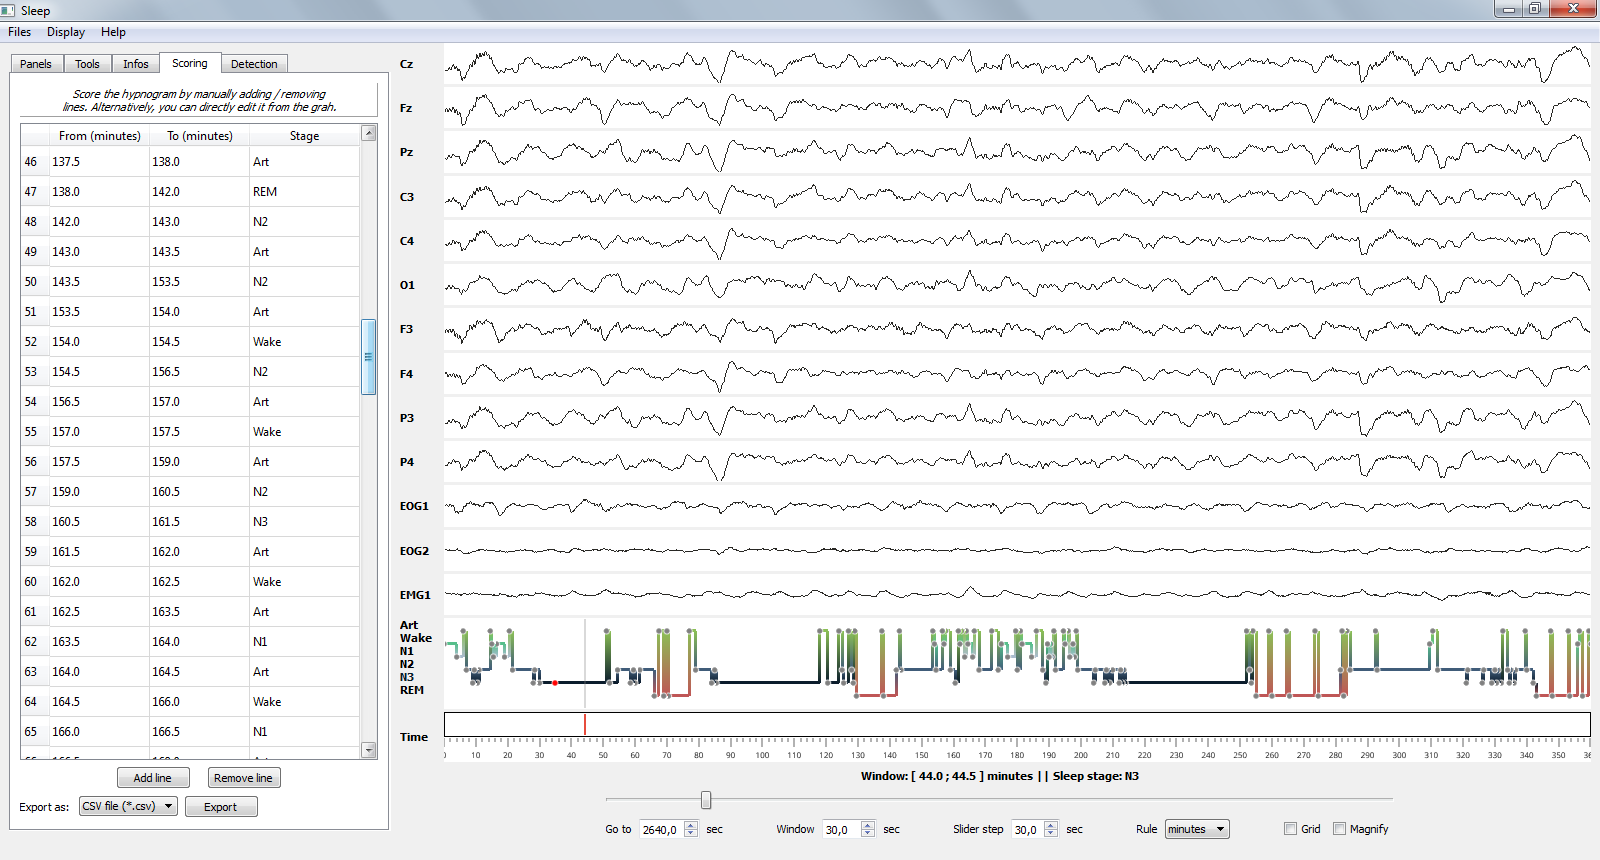
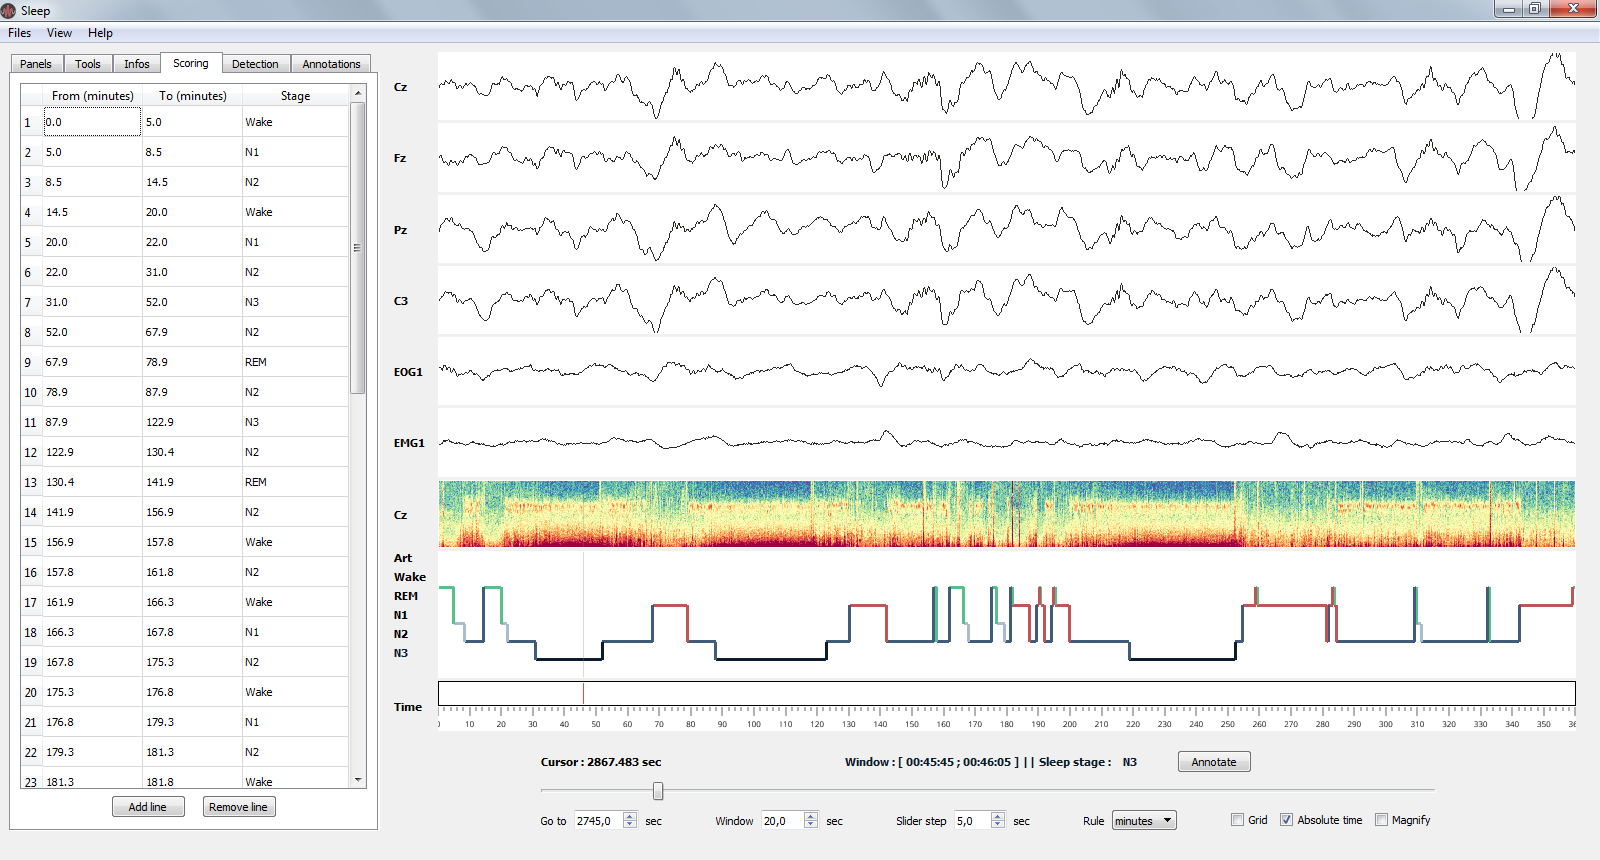
updated sleep doc

diff --git a/visbrain/sleep/interface/gui/sleep_gui.py b/visbrain/sleep/interface/gui/sleep_gui.py
@@ -1,8 +1,8 @@
 # -*- coding: utf-8 -*-
 
-# Form implementation generated from reading ui file '/home/etienne/Toolbox/visbrain/visbrain/sleep/interface/gui/sleep_gui.ui'
+# Form implementation generated from reading ui file 'sleep_gui.ui'
 #
-# Created by: PyQt5 UI code generator 5.9
+# Created by: PyQt5 UI code generator 5.8.2
 #
 # WARNING! All changes made in this file will be lost!
 
@@ -104,7 +104,7 @@ class Ui_MainWindow(object):
         self._PanScrollChan.setAlignment(QtCore.Qt.AlignLeading|QtCore.Qt.AlignLeft|QtCore.Qt.AlignTop)
         self._PanScrollChan.setObjectName("_PanScrollChan")
         self.scrollAreaWidgetContents_3 = QtWidgets.QWidget()
-        self.scrollAreaWidgetContents_3.setGeometry(QtCore.QRect(0, 0, 376, 689))
+        self.scrollAreaWidgetContents_3.setGeometry(QtCore.QRect(0, 0, 337, 728))
         self.scrollAreaWidgetContents_3.setObjectName("scrollAreaWidgetContents_3")
         self.verticalLayout_14 = QtWidgets.QVBoxLayout(self.scrollAreaWidgetContents_3)
         self.verticalLayout_14.setContentsMargins(0, 0, 0, 0)
@@ -956,7 +956,7 @@ class Ui_MainWindow(object):
         self._ToolsRefIgnArea.setWidgetResizable(True)
         self._ToolsRefIgnArea.setObjectName("_ToolsRefIgnArea")
         self.scrollAreaWidgetContents = QtWidgets.QWidget()
-        self.scrollAreaWidgetContents.setGeometry(QtCore.QRect(0, 0, 386, 315))
+        self.scrollAreaWidgetContents.setGeometry(QtCore.QRect(0, 0, 341, 343))
         self.scrollAreaWidgetContents.setObjectName("scrollAreaWidgetContents")
         self.verticalLayout_2 = QtWidgets.QVBoxLayout(self.scrollAreaWidgetContents)
         self.verticalLayout_2.setContentsMargins(0, 0, 0, 0)
@@ -982,7 +982,6 @@ class Ui_MainWindow(object):
         self.verticalLayout_30.addWidget(self._ToolsRefGrp)
         spacerItem31 = QtWidgets.QSpacerItem(20, 40, QtWidgets.QSizePolicy.Minimum, QtWidgets.QSizePolicy.Expanding)
         self.verticalLayout_30.addItem(spacerItem31)
-        self.frame_6.raise_()
         self.frame_6.raise_()
         self._ToolsRefGrp.raise_()
         self._stacked_tools.addWidget(self.page_4)
@@ -1769,7 +1768,7 @@ class Ui_MainWindow(object):
         self.horizontalLayout_2.addWidget(self.splitter)
         MainWindow.setCentralWidget(self.centralwidget)
         self.menubar = QtWidgets.QMenuBar(MainWindow)
-        self.menubar.setGeometry(QtCore.QRect(0, 0, 1359, 25))
+        self.menubar.setGeometry(QtCore.QRect(0, 0, 1359, 21))
         self.menubar.setObjectName("menubar")
         self.menuFiles = QtWidgets.QMenu(self.menubar)
         self.menuFiles.setObjectName("menuFiles")
@@ -1999,7 +1998,7 @@ class Ui_MainWindow(object):
         self._PanAllAmpMax.setToolTip(_translate("MainWindow", "<html><head/><body><p>Change maximum amplitude for all channels</p></body></html>"))
         self._PanSpecMethod.setToolTip(_translate("MainWindow", "<html><head/><body><p>Computation method for the spectrogram</p></body></html>"))
         self._PanSpecMethod.setItemText(0, _translate("MainWindow", "spectrogram"))
-        self._PanSpecMethod.setItemText(1, _translate("MainWindow", "time-frequency"))
+        self._PanSpecMethod.setItemText(1, _translate("MainWindow", "wavelet"))
         self._PanSpecMethod.setItemText(2, _translate("MainWindow", "multitaper"))
         self.label_54.setText(_translate("MainWindow", "Apply on\n"
 "channel"))

diff --git a/visbrain/sleep/visuals/visuals.py b/visbrain/sleep/visuals/visuals.py
@@ -474,7 +474,7 @@ class Spectrogram(PrepareData):
         nperseg = int(round(nfft * sf))
 
         # =================== TF // SPECTRO ===================
-        if method == 'time-frequency':
+        if method == 'wavelet':
             self.tf.set_data(data, sf, f_min=fstart, f_max=fend, cmap=cmap,
                              contrast=contrast, n_window=nperseg,
                              overlap=overlap, window='hamming', norm=norm)
@@ -530,8 +530,8 @@ class Spectrogram(PrepareData):
             self.rect = (tm, freq.min(), tM - tm, freq.max() - freq.min())
             self.freq = freq
         # Visibility :
-        self.mesh.visible = 0 if method == 'time-frequency' else 1
-        self.tf.visible = 1 if method == 'time-frequency' else 0
+        self.mesh.visible = 0 if method == 'wavelet' else 1
+        self.tf.visible = 1 if method == 'wavelet' else 0
 
     def clean(self):
         """Clean indicators."""

diff --git a/visbrain/sleep/interface/ui_elements/ui_menu.py b/visbrain/sleep/interface/ui_elements/ui_menu.py
@@ -18,6 +18,7 @@ class UiMenu(HelpMenu):
         """Init."""
         base = 'http://visbrain.org/sleep.html'
         sections = {'Sleep': base,
+                    'Time-frequency': base + '#time-frequency',
                     'Hypnogram scoring': base + '#hypnogram-scoring',
                     'Detections': base + '#apply-semi-automatic-detection',
                     'Annotations': base + '#import-add-and-save-annotations'}

diff --git a/visbrain/sleep/interface/ui_elements/ui_panels.py b/visbrain/sleep/interface/ui_elements/ui_panels.py
@@ -464,7 +464,7 @@ class UiPanels(object):
         _, fend = self._PanSpecFstart.value(), self._PanSpecFend.value()  # noqa
         # Enable / disable normalization :
         use_tf = 1 if str(self._PanSpecMethod.currentText()
-                          ) == 'time-frequency' else 0
+                          ) == 'wavelet' else 0
         self._PanSpecNormW.setEnabled(use_tf)
 
         self._PanSpecStep.setMaximum(nfft * .99)

diff --git a/docs/sleep.rst b/docs/sleep.rst
@@ -44,7 +44,7 @@ Main features
 * **Hypnogram**
     * Load, edit and save
     * Real-time computation of sleep statistics
-    * Export the hypnogram as a color or black-and-white traditional figure
+    * Export high-quality hypnogram figure
 * **Semi-automatic detection and signal processing functions**
     * Implemented methods : sleep spindles, K-complexes, slow waves, rapid eye movements, muscle twitches and peak detection (*each detection comes with additional and controllable parameters*)
     * Can be performed either on single or multiple channels
@@ -99,8 +99,8 @@ Settings panel tabs
 
 Sleep provide five settings tabs :
 
-* :ref:`paneltab` : manage object visibility, channel's amplitudes, spectrogram properties...
-* :ref:`toolstab` : a bundle of signal processing tools (*e.g filtering, re-referencing*)
+* :ref:`paneltab` : manage channel, time-frequency, hypnogram and topographic map
+* :ref:`toolstab` : bundle of signal processing tools (*e.g filtering, re-referencing*)
 * :ref:`infotab` : sleep statistics and basic infos on the EEG recording
 * :ref:`scoringtab` : a scoring table that can be used to edit the hypnogram
 * :ref:`detectiontab` : automatic detection of sleep spindles, rapid eye movements (REMs), slow waves, K-complexes (KCs) and peaks
@@ -111,7 +111,7 @@ Sleep provide five settings tabs :
 Panels
 ++++++
 
-Manage object visibility, channel's amplitudes, spectrogram properties...
+Manage channel, time-frequency, hypnogram and topographic map
 
 .. figure::  picture/picsleep/sleep_topo.png
    :align:   center
@@ -125,18 +125,15 @@ Manage object visibility, channel's amplitudes, spectrogram properties...
         * By setting all amplitudes at once
         * Use symmetric amplitudes (-M, +M)
         * Use automatic amplitude (each amplitude fit to the (minimum, maximum) of the current displayed window)
-* *Spectrogram*
-    * Control spectrogram looking and properties
+* *Time-frequency*
+    * Manage the time-frequency representation of the full recording
         * the channel on which compute spectrogram
-        * tarting and ending frequencies
+        * the computation method (see :ref:`time_frequency`)
+        * starting and ending frequencies
         * time length window and overlap
         * colormap
-    * Display and zoom
-        * Show / hide spectrogram, hypnogram, time axis
-        * Display / hide visual indicators referring to the current time window
-        * Zoom : when zooming, the axis will fit to the time window according to the (window, step) parameters defined in the ruler
 * **Topoplot**
-    * Display and properties
+    * Manage the topographic map (topoplot) of the current window
         * Show / hide topoplot
         * Display either the filtered signal, the amplitude or the power in specific frequency band
         * Colormap control
@@ -173,6 +170,7 @@ The Info panel displays the recording infos (e.g. name and downsampling frequenc
    Sleep statistics.
 
 * File properties
+    * Filename
     * Sampling frequency
     * Down-sampling frequency
 * Sleep statistics(*All values are expressed in minutes*):
@@ -453,6 +451,30 @@ It is possible to manually load raw data and pass them as inputs arguments Sleep
 	Data must be an array with shape (channels, samples). The number of channels must be the same as in *channels* variable. If you load an hypnogram this way, it must have the same number of point (i.e same sampling rate) as the data. If your hypnogram comes with a different time base, the simplest way is to export it into a simple txt file and follow the procedure described above.
 
 .. ----------------------------------------------------------------------------
+..                              TIME-FREQUENCY
+.. ----------------------------------------------------------------------------
+
+.. _time_frequency:
+
+Time-frequency
+~~~~~~~~~~~~~~
+
+There are currently three methods implemented in Sleep to compute the time-frequency of the recording.
+
+==============  ===================================     ==========================================
+Name            Method                                  Dependency
+==============  ===================================     ==========================================
+Spectrogram     Fourier-based spectrogram               SciPy
+Wavelet         Morlet's wavelet                        None
+Multitaper      Multitaper-based Wigner spectrogram     lspopt<https://github.com/hbldh/lspopt>`_
+==============  ===================================     ==========================================
+
+.. figure::  picture/picsleep/sleep_spectro_methods.png
+   :align:   center
+
+   Comparison of the three time-frequency methods on a 50 minutes nap recording (C3 electrode, 0.5 - 20 Hz).
+
+.. ----------------------------------------------------------------------------
 ..                              SCORING
 .. ----------------------------------------------------------------------------
 
@@ -461,12 +483,12 @@ It is possible to manually load raw data and pass them as inputs arguments Sleep
 Hypnogram scoring
 ~~~~~~~~~~~~~~~~~
 
-Sleep offers three possibilities to score the hypnogram, during the :ref:`navigation` using shortcuts, manually using the :ref:`scoretable` or in :ref:`liveedit`.
+Sleep offers two possibilities to score the hypnogram, i.e. during the :ref:`navigation` using shortcuts or using the :ref:`scoretable`.
 
 .. figure::  picture/picsleep/sleep_scoring.png
    :align:   center
 
-   Hypnogram scoring table.
+   Hypnogram scoring.
 
 .. _navigation:
 
@@ -496,7 +518,7 @@ After pressing one of those keys, data coming from the next window will be promp
 Scoring table
 ^^^^^^^^^^^^^
 
-The Scoring panel can be used to manually edit the hypnogram values. It contains three columns :
+The Scoring panel can be used to manually edit the hypnogram values. It contains three columns:
 
 * **From** : specify where the stage start (*in minutes*)
 * **To** : specify where the stage finish (*in minutes*)
@@ -504,29 +526,8 @@ The Scoring panel can be used to manually edit the hypnogram values. It contains
 
 At the end of the hypnogram, you can **Add line** or **Remove line** when a line is selected. An other interesting option is that the table is sortable (by clicking on the arrow inside the column name).
 
-Then, you can export your hypnogram in **.hyp**, **.txt** or **cvs**.
-
-.. figure::  picture/picsleep/sleep_scoring_table.png
-   :align:   center
-
-   Hypnogram scoring using the Scoring table. Manually specify where each stage start / finish and precise the stage type.
-
-.. _liveedit:
-
-Live editing
-^^^^^^^^^^^^
-
-Live editing consist of editing your hypnogram directly from the axis by adding / selecting / dragging points. Unused points will be automatically destroyed.
-
-  - Your cursor is red. Existing points are set in gray.
-  - Double click on the hypnogram to add points
-  - Hover an existing point in order to select it (the point turn green)
-  - Drag the point (blue) on the different hypnogram values
-
-.. figure::  picture/picsleep/sleep_livedit.png
-   :align:   center
-
-   Edit the hypnogram directly from the axes.
+.. note::
+    You can export either the raw hypnogram values, the hypnogram scoring table, or a high-quality figure of the hypnogram using the  Files > Save contextual menu.
 
 .. ----------------------------------------------------------------------------
 ..                              DETECTIONS
@@ -544,11 +545,11 @@ The Detection panel offers several semi-automatic algorithms for the detection o
   * Selected : apply detection on selected channel
   * Visible : apply detection on all visible channels
   * All : apply detection on all channels (even those that are hidden)
-* *Report detection on hypnogram* : display markers on the hypnogram where your spindles / REM / peaks are located.
 
 .. note::
-   After performing one of the detection, got to the *Location* tab to see where detected events start, the duration and on which sleep stage they are located. Select the event to jump to it. Finally, you can export all located event.
+   After performing one of the detection, go to the *Location* tab to see infos about each detected events (starting and ending points, duration, sleep stage). Select the event to jump to it. Finally, you can export the location table using the File > Save contextual menu.
 
+Two examples of automatic event detection are shown below.
 
 Spindles detection
 ^^^^^^^^^^^^^^^^^^
@@ -557,7 +558,7 @@ This algorithm perform a semi-automatic detection of sleep spindles which are an
 .. figure::  picture/picsleep/sleep_spindles.png
    :align:   center
 
-   Spindles detection on channel Cz and report on the hypnogram.
+   Spindles detection on channel Cz.
 
 .. note::
 
@@ -567,23 +568,8 @@ This algorithm perform a semi-automatic detection of sleep spindles which are an
        * *Tmin* : Minimum duration, default 0.5 second
        * *Tmax* : Maximum duration, default 2 seconds
        * *Threshold* : defined as Mean + X * standard deviation of the signal. A  higher threshold will results in a more conservative detection.
-       * *Perform detection only for NREM sleep* : if this checkbox is checked and a hypnogram is loaded, the algorithm will only take into account epochs  scored as NREM sleep. This allows for a more precise and sensitive detection.
+       * *Perform detection only for NREM sleep* : if this checkbox is checked and a hypnogram is loaded, the detection will only be performed on NREM sleep epochs.
 
-Rapid Eye Movements detection
-^^^^^^^^^^^^^^^^^^^^^^^^^^^^^
-
-This algorithm perform a semi-automatic detection of rapid eye movements (REMs, or saccades) which occur during REM sleep (hence the name). Briefly, the method identify consecutive supra-threshold samples of the first derivative of the signal (after filtering).
-
-.. figure::  picture/picsleep/sleep_rem.png
-   :align:   center
-
-   Rapid Eye Movements (REM) detection on channel EOG1 and report on the hypnogram.
-
-.. note::
-
-   * **Parameters**
-       * *Perform detection only for REM sleep* : once again, if a hypnogram is loaded, you can choose whether you want to perform the detection only for REM sleep epochs or for the whole recording.
-       * *Threshold* : defined as Mean + X * standard deviation of the signal. A higher threshold will results in a more conservative detection.
 
 Peaks detection
 ^^^^^^^^^^^^^^^
@@ -593,7 +579,7 @@ Perform a peak detection.
 .. figure::  picture/picsleep/sleep_peak.png
    :align:   center
 
-   Peaks detection on ECG channel and report on the hypnogram.
+   Peaks detection on ECG channel.
 
 .. note::
 

diff --git a/README.rst b/README.rst
@@ -69,7 +69,7 @@ Modules
    :align:   center
 
 * `Brain <http://visbrain.org/brain.html>`_ : visualize EEG/MEG/Intracranial data, connectivity in a standard MNI 3D brain (see `Brain examples <http://visbrain.org/auto_examples/index.html#brain-examples>`_).
-* `Sleep <http://visbrain.org/sleep.html>`_ : visualize polysomnographic data and hypnogram edition (see `Sleep examples <http://visbrain.org/auto_examples/index.html#sleep-examples>`_).
+* `Sleep <http://visbrain.org/sleep.html>`_ : visualize and analyze polysomnographic sleep data (see `Sleep examples <http://visbrain.org/auto_examples/index.html#sleep-examples>`_).
 * `Signal <http://visbrain.org/signal.html>`_ : data-mining module for time-series inspection (see `Signal examples <http://visbrain.org/auto_examples/index.html#signal-examples>`_).
 * `Topo <http://visbrain.org/topo.html>`_ : display topographical maps (see `Topo examples <http://visbrain.org/auto_examples/index.html#topoplot-examples>`_).
 * `Figure <http://visbrain.org/figure.html>`_ : figure-layout for high-quality publication-like figures (see `Figure examples <http://visbrain.org/auto_examples/index.html#figure-examples>`_).
